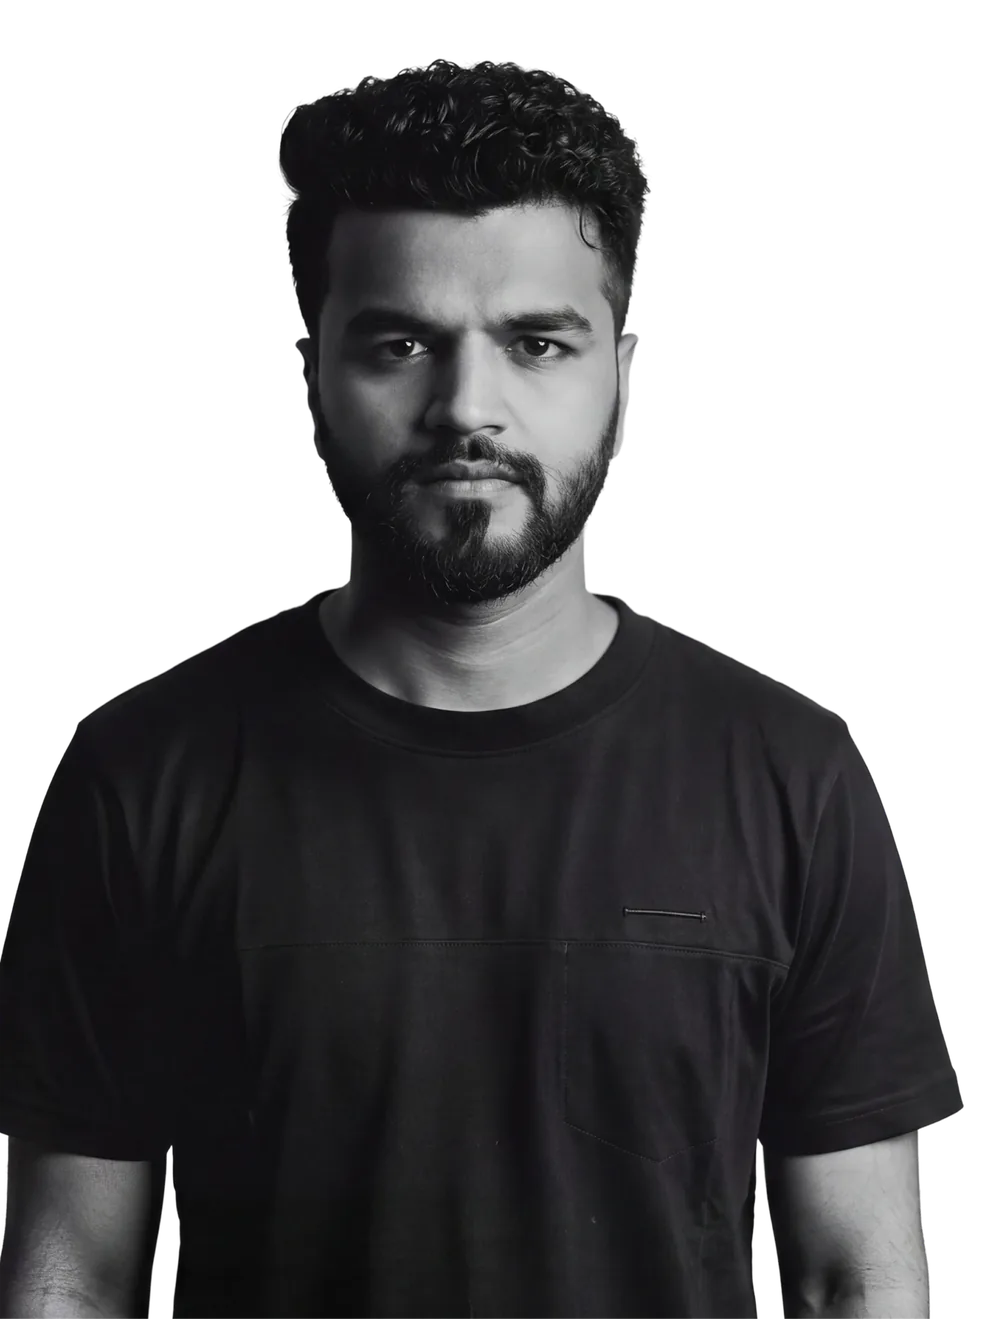
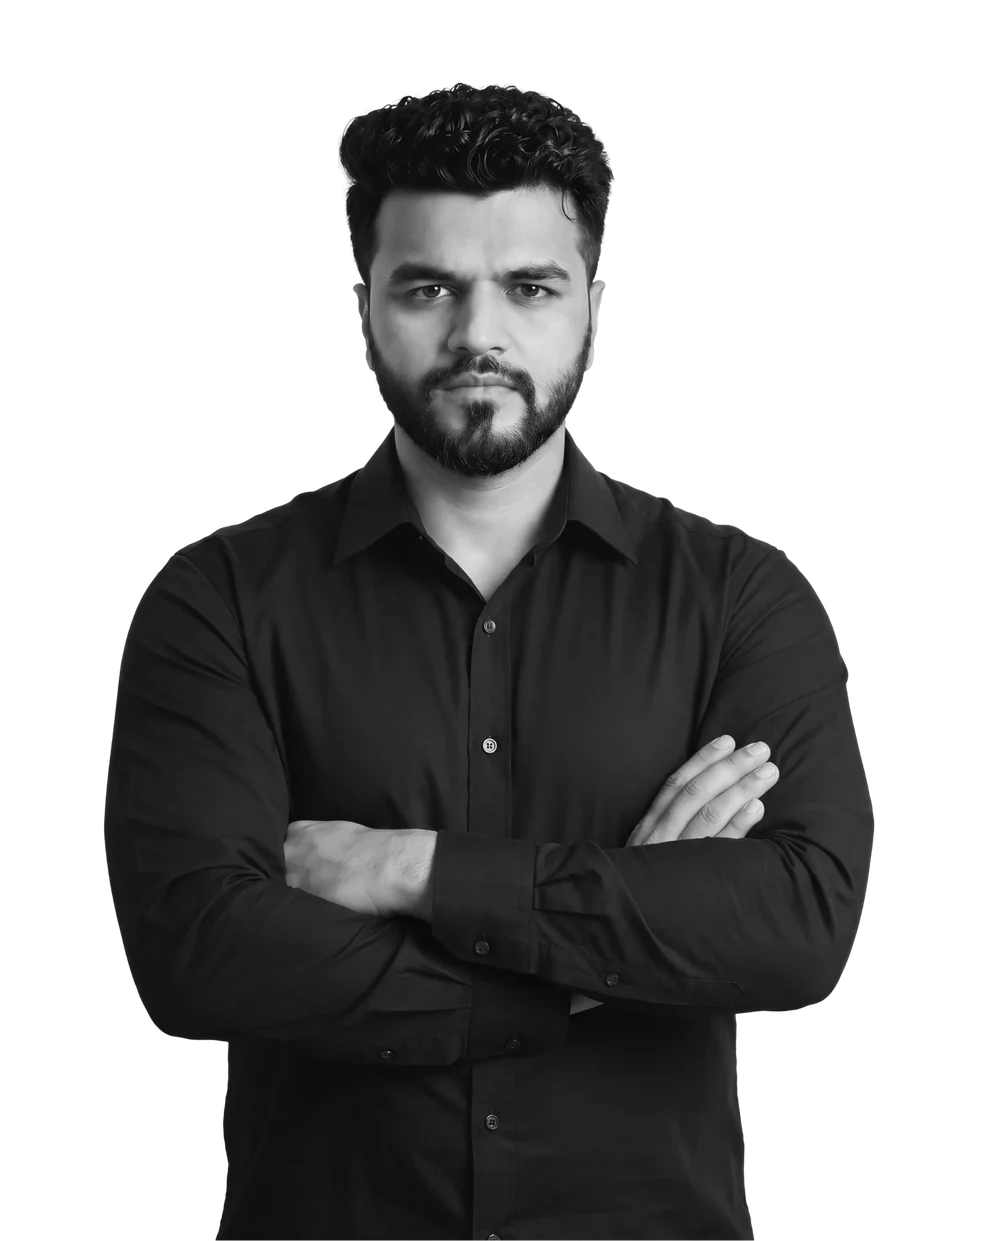
Replace Sanskaar Singh's portrait with the new cut-out
New black-and-white transparent cut-out (black shirt, arms crossed) for
the founder section (1000×1241) and his team card (480×528, framed like
the other team portraits).

Claude-Session: https://claude.ai/code/session_01BMvzd5TVb5oZd3pi5Fg2en

diff --git a/src/data/about.js b/src/data/about.js
@@ -77,7 +77,7 @@ export const founder = {
   // Cut-out portrait (transparent background), 1000×1319
   photo: '/assets/about/sanskaar-singh.webp',
   photoWidth: 1000,
-  photoHeight: 1319,
+  photoHeight: 1241,
   story: [
     'Sanskaar founded Vistaar in Bhopal in 2019 as a founder-led digital practice. Businesses needed websites, design and communication. More than that, they needed someone who understood the business behind the requirement. That became the foundation of Vistaar.',
     'Today he leads strategy, creative direction, research-led problem solving, key client engagements and the build-out of new capabilities.',
